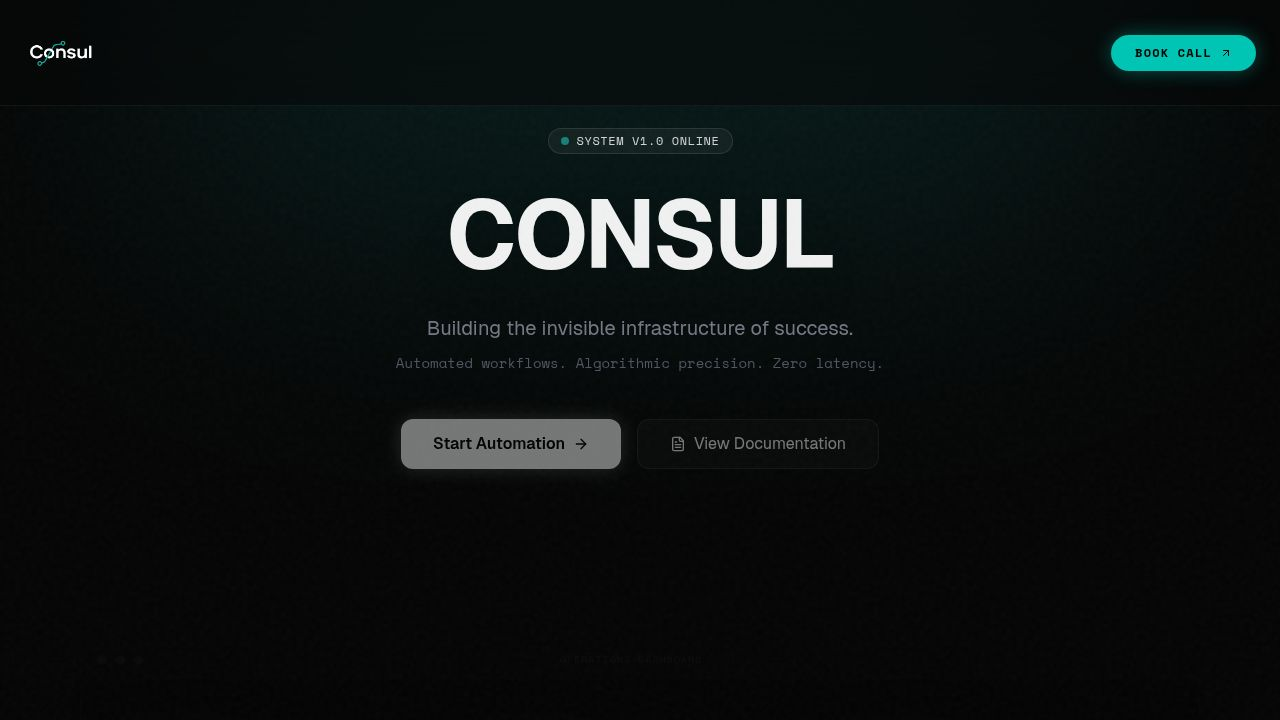
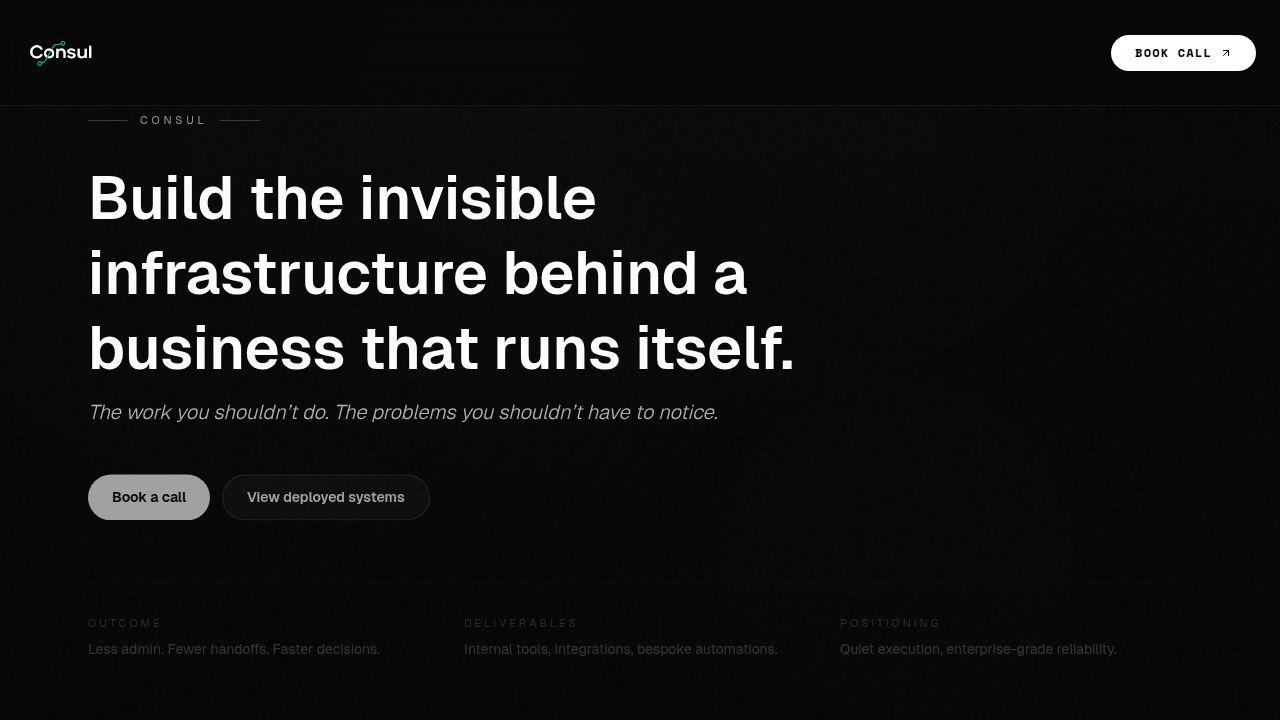
Update hero section with new headline and subheadline text
Refine hero section headline and subheadline copy and styling in `hero.tsx`.

Replit-Commit-Author: Agent
Replit-Commit-Session-Id: 65c962ed-5516-46e1-8b92-51253fda47c9
Replit-Commit-Checkpoint-Type: full_checkpoint
Replit-Commit-Event-Id: 1c2ceabd-a86c-4863-87db-19608e68bb1f
Replit-Commit-Screenshot-Url: https://storage.googleapis.com/screenshot-production-us-central1/68a368c8-cbc7-4db4-b7c0-b7e6da08be15/65c962ed-5516-46e1-8b92-51253fda47c9/0jqa3pH
Replit-Helium-Checkpoint-Created: true

diff --git a/client/src/components/sections/hero.tsx b/client/src/components/sections/hero.tsx
@@ -31,22 +31,15 @@ export function Hero() {
           initial={{ opacity: 0, y: 20 }}
           animate={{ opacity: 1, y: 0 }}
           transition={{ duration: 0.8, delay: 0.2 }}
-          className="mt-8 max-w-4xl text-5xl md:text-7xl leading-[1.02] tracking-tight"
+          className="mt-8 max-w-4xl text-4xl md:text-6xl leading-tight text-white"
         >
-          Build the invisible infrastructure
-          <span className="text-white/70"> behind</span> a business that runs itself.
+          <span className="block font-semibold">
+            Build the invisible infrastructure behind a business that runs itself.
+          </span>
+          <span className="mt-3 block text-lg md:text-xl font-light italic text-white/70">
+            The work you shouldn’t do. The problems you shouldn’t have to notice.
+          </span>
         </motion.h1>
-
-        {/* Subcopy */}
-        <motion.p 
-          initial={{ opacity: 0, y: 20 }}
-          animate={{ opacity: 1, y: 0 }}
-          transition={{ duration: 0.8, delay: 0.4 }}
-          className="mt-7 max-w-2xl text-base md:text-lg leading-relaxed text-white/65"
-        >
-          Consul audits operations, removes friction, and delivers custom internal tools and automations—
-          so the repetitive work disappears and execution becomes consistent.
-        </motion.p>
 
         {/* CTAs */}
         <motion.div 
